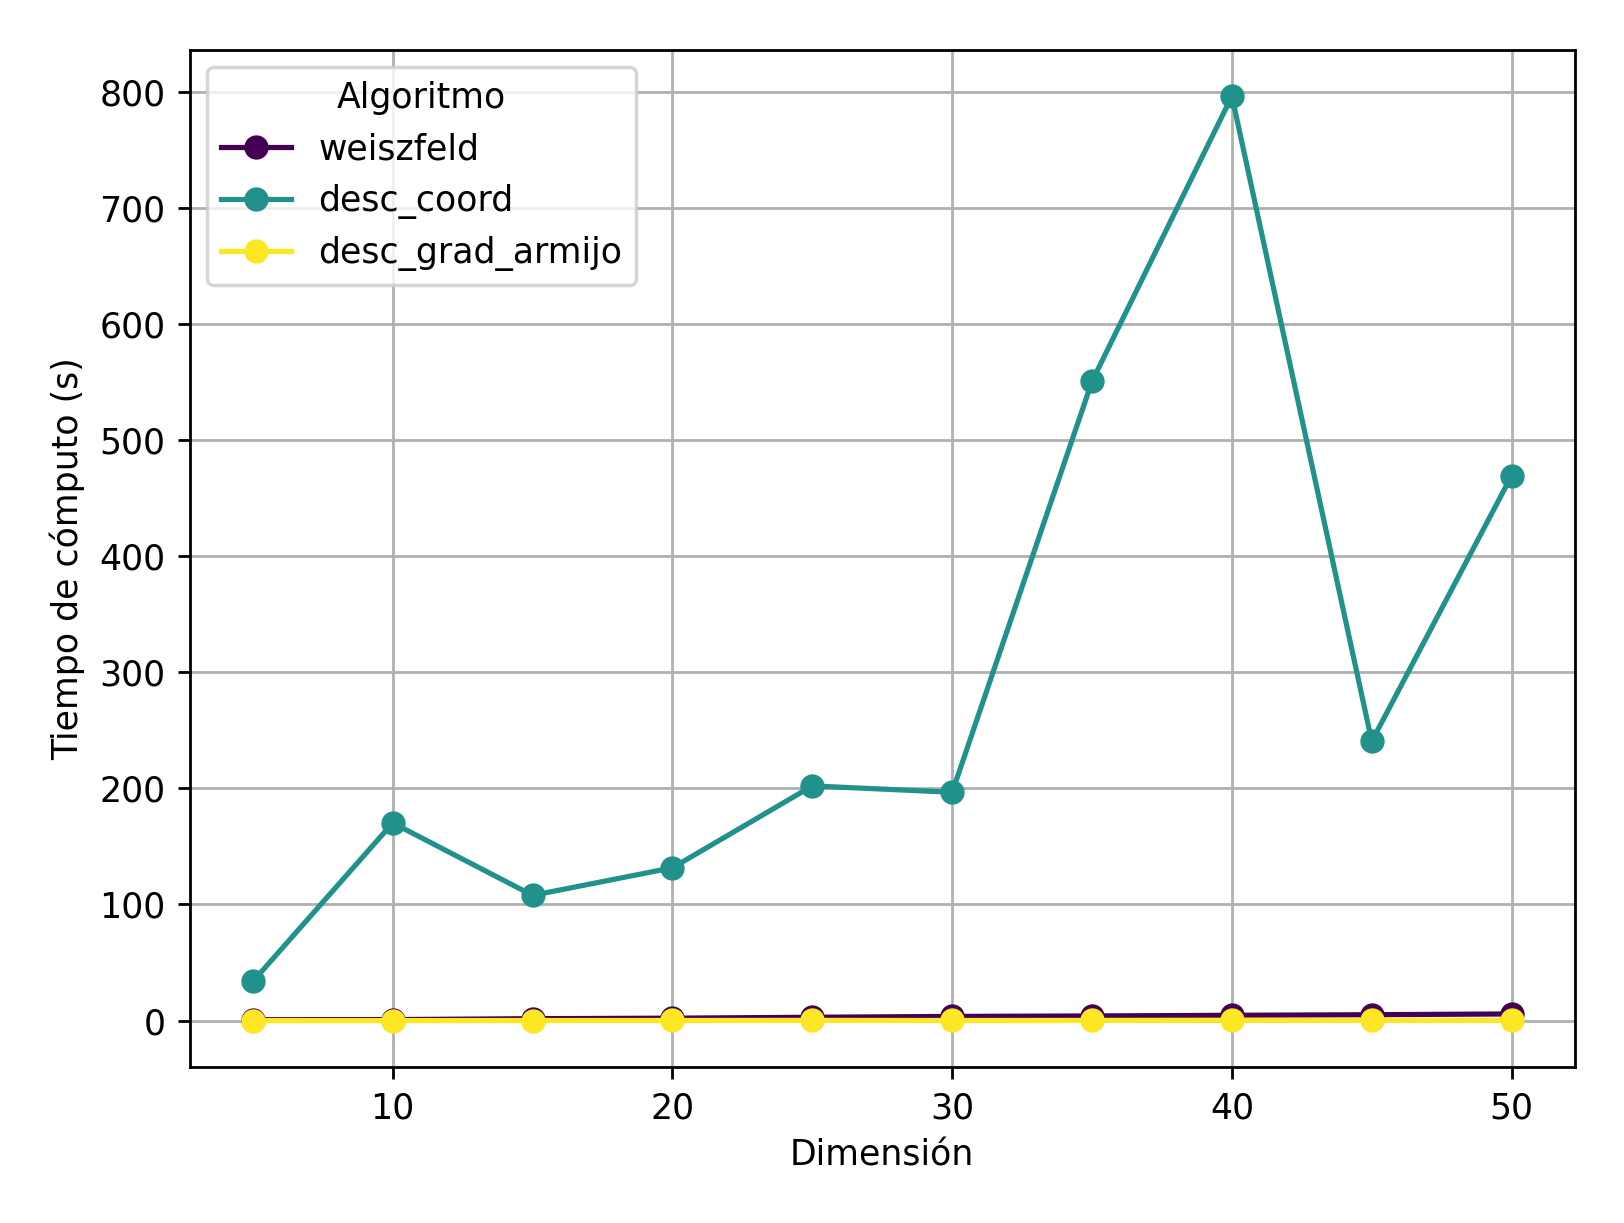
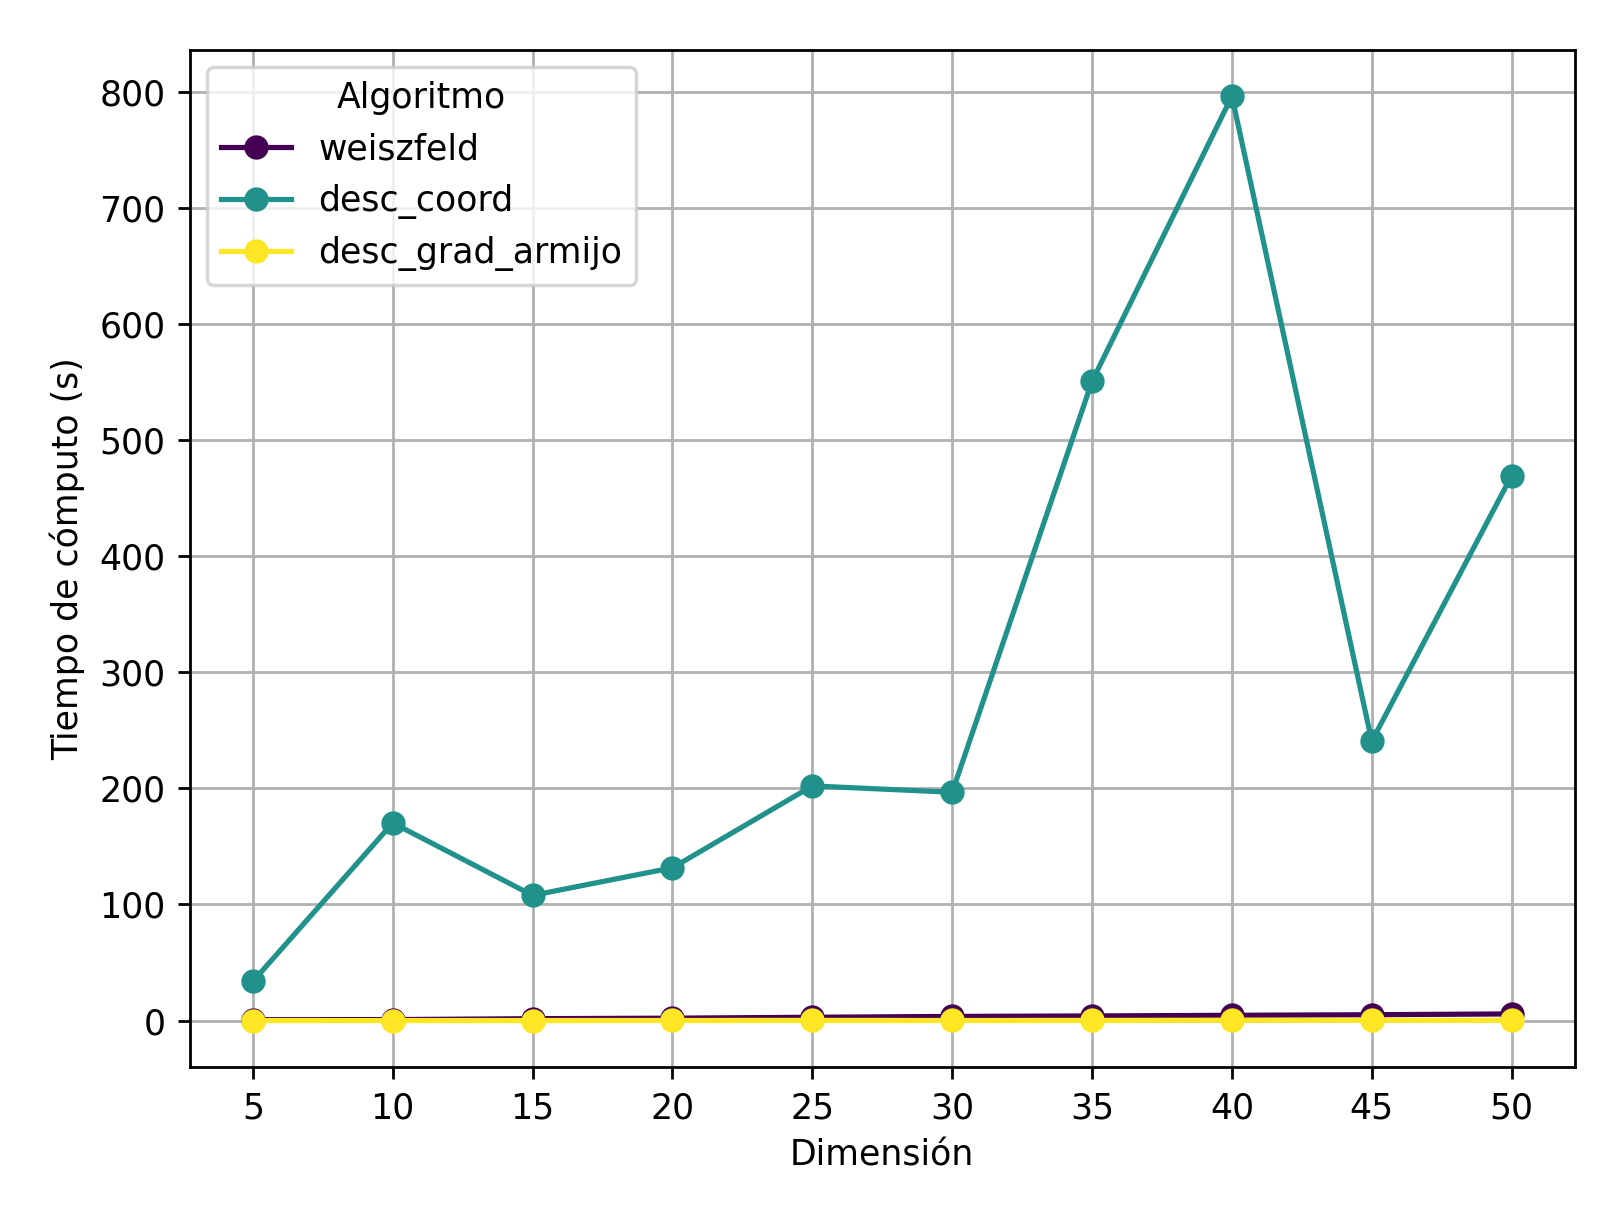
ticks eje x

Changed region(s): [[0.8313, 0.9011, 0.8621, 0.9321], [0.4926, 0.9011, 0.5234, 0.9321], [0.3079, 0.9011, 0.3387, 0.9321]]

diff --git a/graficos/grafico_lineas_dimensiones.py b/graficos/grafico_lineas_dimensiones.py
@@ -5,6 +5,7 @@ import matplotlib.pyplot as plt
 import matplotlib.cm as cm
 import matplotlib.colors as mcolors
 
+#%%
 df = pd.read_csv('../resultados_dimensional.csv')
 
 df = df.sort_values('dimension')
@@ -31,6 +32,8 @@ df = pd.read_csv('../resultados_lineal.csv')
 
 df = df.sort_values('dimension')
 
+cmap = cm.get_cmap('viridis', 3)
+
 for i, algo in enumerate(["weiszfeld", "desc_coord", "desc_grad_armijo"]):
     datos_alg = df[df['algoritmo'] == algo]
     plt.plot(datos_alg['dimension'], datos_alg['tiempo_computo'], color=cmap(i),
@@ -38,10 +41,31 @@ for i, algo in enumerate(["weiszfeld", "desc_coord", "desc_grad_armijo"]):
 
 plt.xlabel('Dimensión')
 plt.ylabel('Tiempo de cómputo (s)')
+plt.xticks(np.arange(5, 51, 5))
 plt.legend(title='Algoritmo')
 plt.grid(True)
 plt.tight_layout()
 plt.savefig(fname = f'grafico_dimensiones_lineal',dpi=250, bbox_inches='tight', pad_inches=0.2)
 plt.close()
 #
+# %%
+df = pd.read_csv('../resultados_uniforme.csv')
+
+df = df.sort_values('dimension')
+
+cmap = cm.get_cmap('viridis', 3)
+
+for i, algo in enumerate(["weiszfeld", "desc_coord", "desc_grad_armijo"]):
+    datos_alg = df[df['algoritmo'] == algo]
+    plt.plot(datos_alg['dimension'], datos_alg['tiempo_computo'], color=cmap(i),
+             marker='o', label=algo)
+
+plt.xlabel('Dimensión')
+plt.ylabel('Tiempo de cómputo (s)')
+plt.xticks(np.arange(5, 51, 5))
+plt.legend(title='Algoritmo')
+plt.grid(True)
+plt.tight_layout()
+plt.savefig(fname = f'grafico_dimensiones_uniforme',dpi=250, bbox_inches='tight', pad_inches=0.2)
+plt.close()
 # %%
